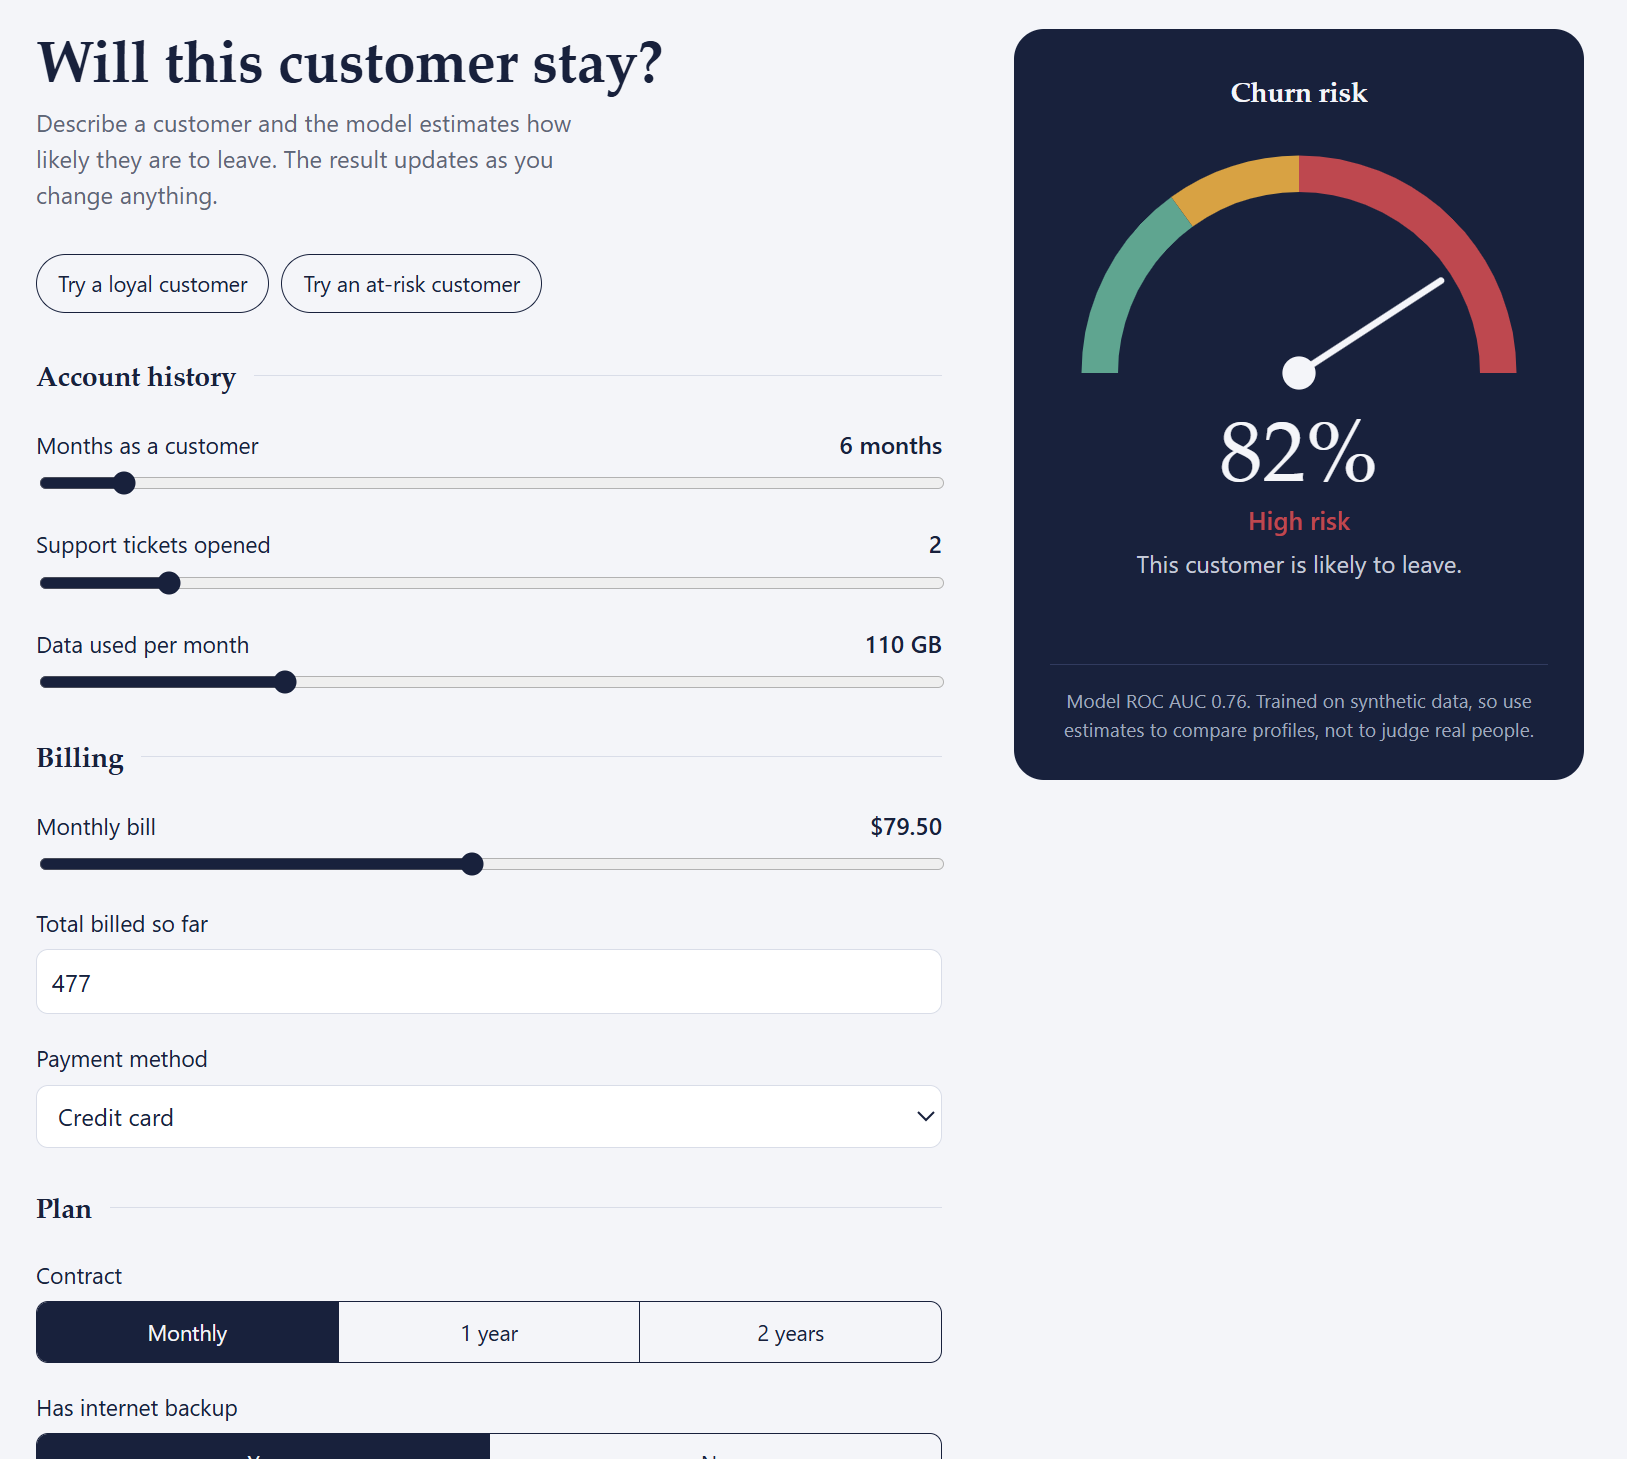
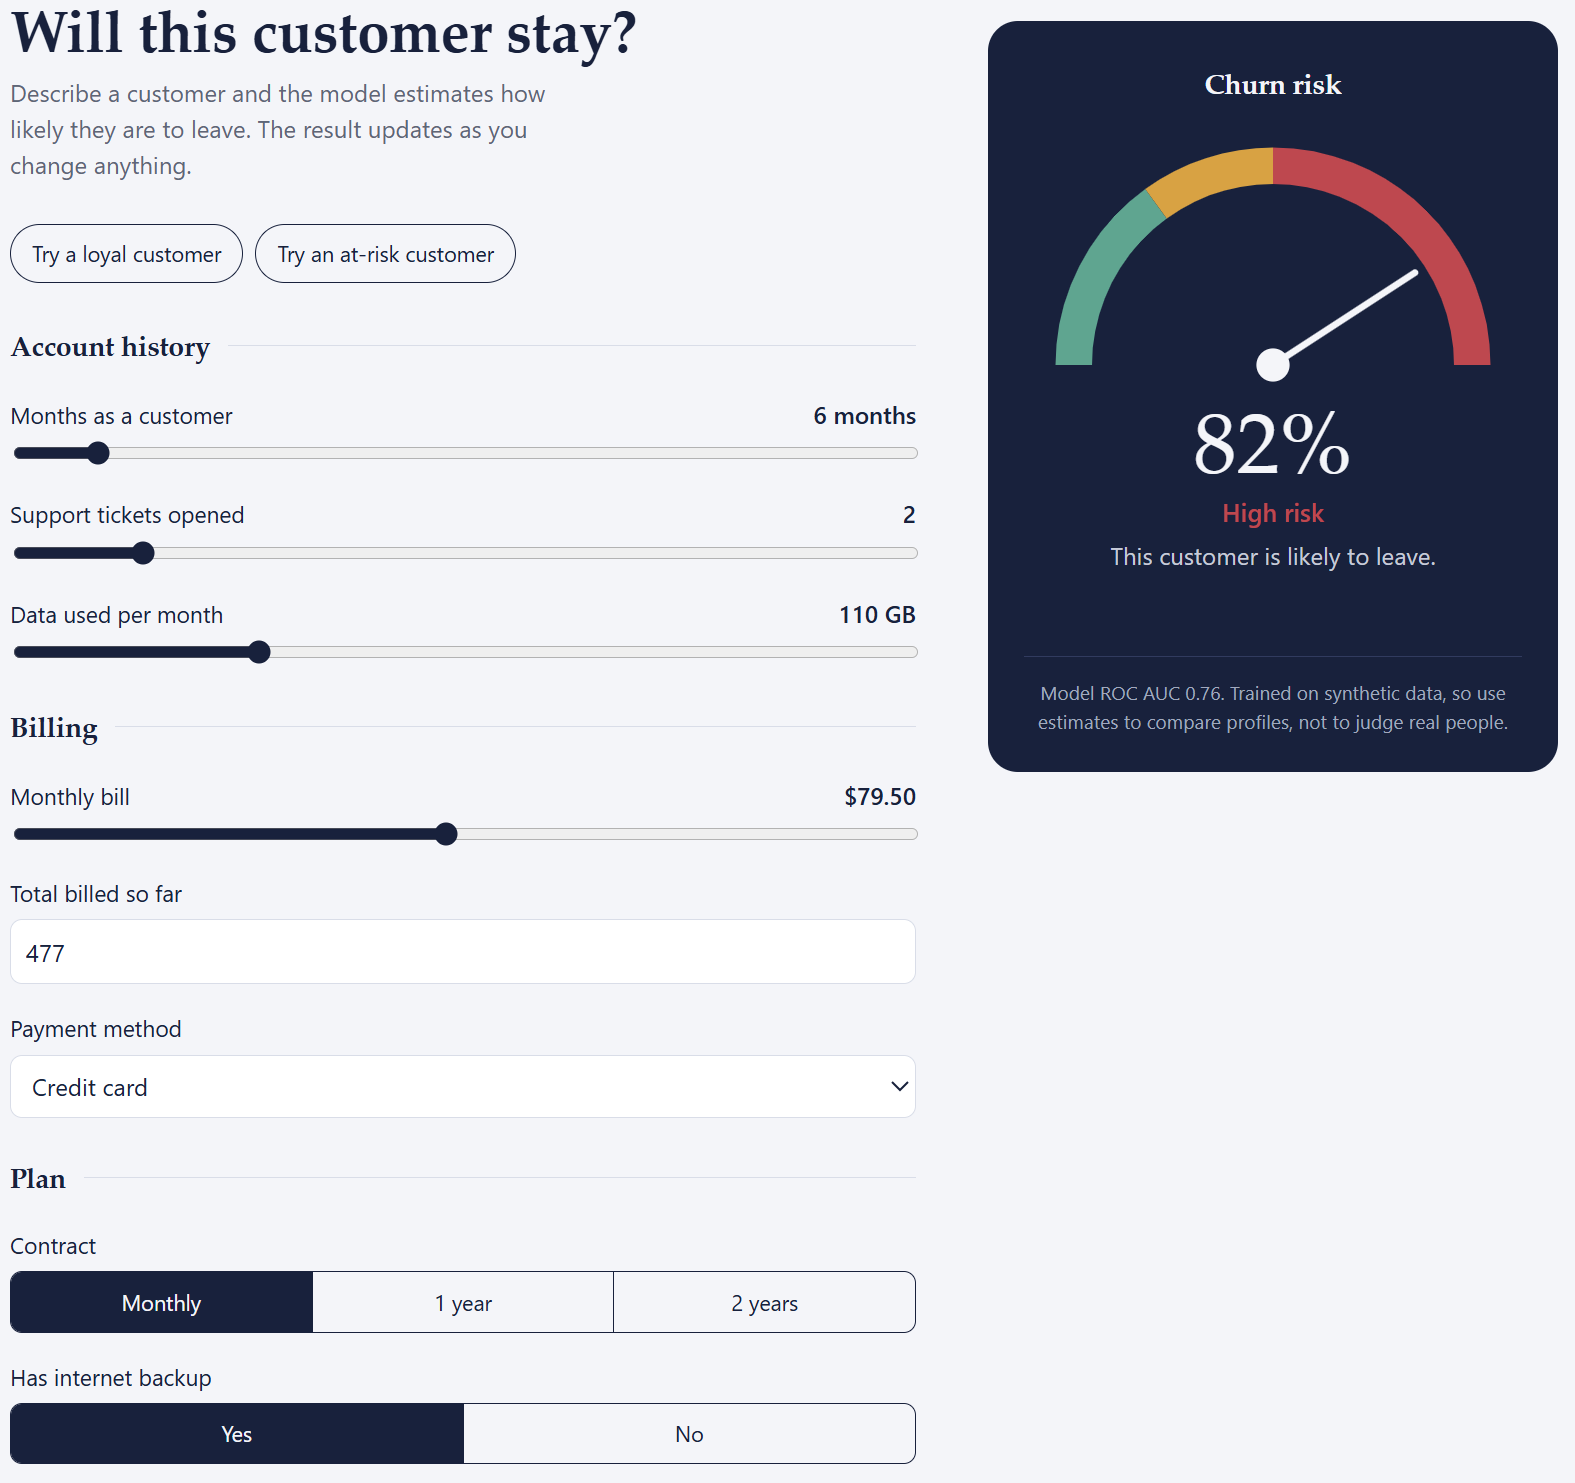
Add customer-facing churn risk UI

diff --git a/README.md b/README.md
@@ -7,7 +7,7 @@ A customer-churn model taken from training to a published, scanned container ima
 Every push to `main` is linted, tested, retrained, gated, built, scanned, and pushed to Docker Hub automatically.
 
 ![Pipeline](docs/pipeline.png)
-![Churn risk UI](docs/ui.png)
+![Churn risk UI](docs/UI.png)
 
 ## Architecture
 
